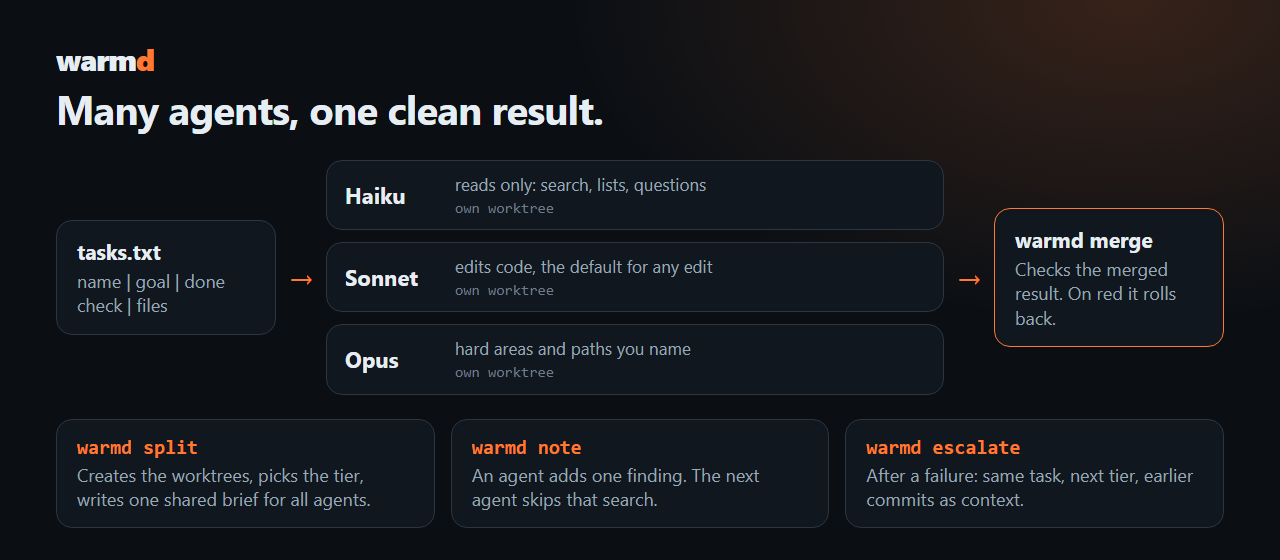
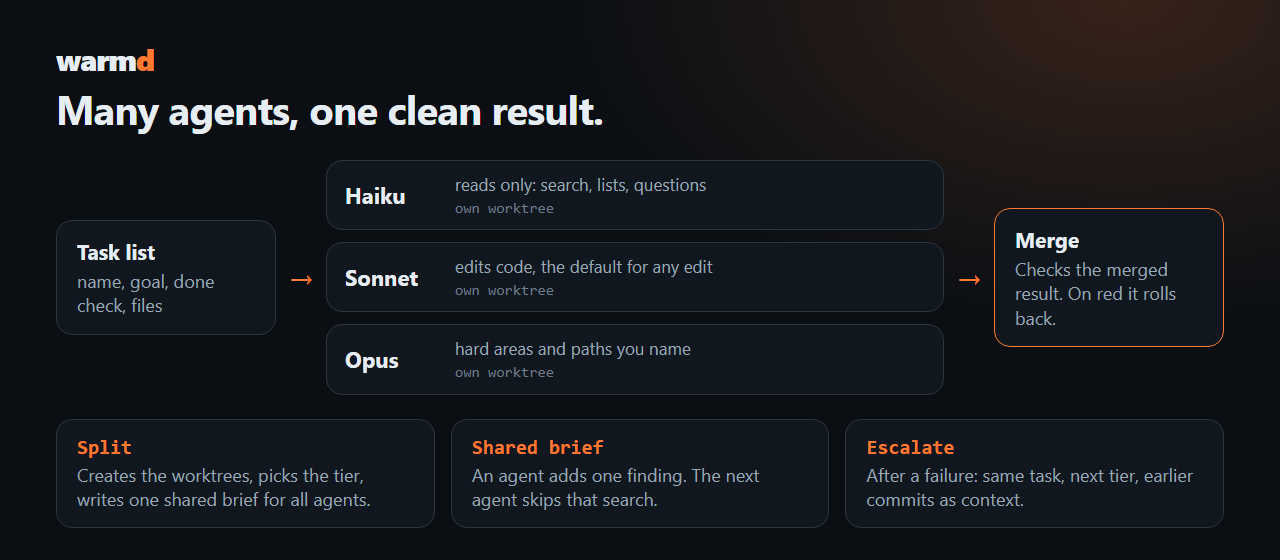
Site: render fixes from GitHub at 1280 and 390 px
- hero: no wide install block (overflowed on phone), link to Install
- stat table 2x2, the 4-column table scrolled on phone
- features.png larger text, flow.png names functions instead of commands

diff --git a/docs/assets/flow.html b/docs/assets/flow.html
@@ -23,7 +23,7 @@ h1{font-size:40px;line-height:1.15;letter-spacing:-.8px;font-weight:700;margin-t
 <div class="logo">warm<span>d</span></div>
 <h1>Many agents, one clean result.</h1>
 <div class="flow">
- <div class="card box"><b>tasks.txt</b>name | goal | done check | files</div>
+ <div class="card box"><b>Task list</b>name, goal, done check, files</div>
  <div class="ar">&rarr;</div>
  <div class="tiers">
   <div class="card tier"><b>Haiku</b><span>reads only: search, lists, questions<br><i class="wt">own worktree</i></span></div>
@@ -31,11 +31,11 @@ h1{font-size:40px;line-height:1.15;letter-spacing:-.8px;font-weight:700;margin-t
   <div class="card tier"><b>Opus</b><span>hard areas and paths you name<br><i class="wt">own worktree</i></span></div>
  </div>
  <div class="ar">&rarr;</div>
- <div class="card box hi"><b>warmd merge</b>Checks the merged result. On red it rolls back.</div>
+ <div class="card box hi"><b>Merge</b>Checks the merged result. On red it rolls back.</div>
 </div>
 <div class="under">
- <div class="card box"><b>warmd split</b>Creates the worktrees, picks the tier, writes one shared brief for all agents.</div>
- <div class="card box"><b>warmd note</b>An agent adds one finding. The next agent skips that search.</div>
- <div class="card box"><b>warmd escalate</b>After a failure: same task, next tier, earlier commits as context.</div>
+ <div class="card box"><b>Split</b>Creates the worktrees, picks the tier, writes one shared brief for all agents.</div>
+ <div class="card box"><b>Shared brief</b>An agent adds one finding. The next agent skips that search.</div>
+ <div class="card box"><b>Escalate</b>After a failure: same task, next tier, earlier commits as context.</div>
 </div>
 </body></html>

diff --git a/docs/assets/features.html b/docs/assets/features.html
@@ -1,7 +1,7 @@
 <!doctype html>
 <html><head><meta charset="utf-8"><style>
 *{box-sizing:border-box;margin:0}
-html,body{width:1280px;height:880px;overflow:hidden}
+html,body{width:1280px;height:1032px;overflow:hidden}
 body{background:#0b0f14;color:#e6edf3;font-family:"Segoe UI",system-ui,sans-serif;padding:44px 56px;position:relative}
 body:before{content:"";position:absolute;inset:0;background:radial-gradient(900px 520px at 88% 0%,rgba(255,122,48,.18),transparent 62%)}
 body>*{position:relative}
@@ -10,8 +10,8 @@ h1{font-size:40px;line-height:1.15;letter-spacing:-.8px;font-weight:700;margin-t
 .card{background:#11171e;border:1px solid #2c3641;border-radius:16px}
 h2{font-size:18px;letter-spacing:1.5px;text-transform:uppercase;color:#ff7a30;margin:26px 0 12px}
 .grid{display:grid;grid-template-columns:repeat(4,1fr);gap:12px}
-.k{padding:13px 16px;font-size:16px;line-height:1.3;color:#9aa7b4}
-.k b{display:block;color:#e6edf3;font-size:19px;margin-bottom:3px}
+.k{padding:14px 18px;font-size:19px;line-height:1.3;color:#9aa7b4}
+.k b{display:block;color:#e6edf3;font-size:23px;margin-bottom:4px}
 </style></head><body>
 <div class="logo">warm<span>d</span></div>
 <h1>Fast by default, safe by design.</h1>

diff --git a/README.md b/README.md
@@ -6,10 +6,7 @@
 
 **Install once. After that warmd runs the slow parts for your coding agent, and you do nothing.**
 
-```bash
-curl -fsSL https://raw.githubusercontent.com/Vyrenbusiness-source/warmd-fewer-tokens-faster-agents/main/install.sh | bash
-cd your-project && warmd init
-```
+For Windows, in Git Bash. [Install in one line](#install).
 
 [![Star on GitHub](https://img.shields.io/github/stars/Vyrenbusiness-source/warmd-fewer-tokens-faster-agents?style=social&label=Star)](https://github.com/Vyrenbusiness-source/warmd-fewer-tokens-faster-agents/stargazers)
 [![CI](https://github.com/Vyrenbusiness-source/warmd-fewer-tokens-faster-agents/actions/workflows/ci.yml/badge.svg)](https://github.com/Vyrenbusiness-source/warmd-fewer-tokens-faster-agents/actions/workflows/ci.yml)
@@ -25,10 +22,12 @@ cd your-project && warmd init
 
 <table>
 <tr>
-<td align="center" width="25%"><h3>95% faster</h3>one Unity test class<br><sub>56 s → 3 s, large HDRP project</sub></td>
-<td align="center" width="25%"><h3>99% fewer tokens</h3>per green Unity test run<br><sub>33 KB log → 41 bytes</sub></td>
-<td align="center" width="25%"><h3>0.4 s</h3>repeat run, code unchanged<br><sub>green results are cached</sub></td>
-<td align="center" width="25%"><h3>19% cheaper</h3>same task with and without warmd<br><sub>real A/B, 2 runs, <a href="docs/ab.md">docs/ab.md</a></sub></td>
+<td align="center" width="50%"><h3>95% faster</h3>one Unity test class<br><sub>56 s → 3 s, large HDRP project</sub></td>
+<td align="center" width="50%"><h3>99% fewer tokens</h3>per green Unity test run<br><sub>33 KB log → 41 bytes</sub></td>
+</tr>
+<tr>
+<td align="center" width="50%"><h3>0.4 s</h3>repeat run, code unchanged<br><sub>green results are cached</sub></td>
+<td align="center" width="50%"><h3>19% cheaper</h3>same task with and without warmd<br><sub>real A/B, 2 runs, <a href="docs/ab.md">docs/ab.md</a></sub></td>
 </tr>
 </table>
 
@@ -96,7 +95,7 @@ The aliases `haiku`, `sonnet` and `opus` follow new releases, so nothing needs c
 
 A task list becomes worktrees, model tiers and one-line prompts. All agents of a batch read one short shared brief and add findings to it, so the next agent skips that search. When context fills up, the state is saved and a fresh agent continues.
 
-![Flow: task list, split, Haiku, Sonnet and Opus each in a worktree, merge with rollback, escalate](docs/assets/flow.png)
+![Flow: a task list is split into worktrees for Haiku, Sonnet and Opus, merged with rollback; shared brief and escalation below](docs/assets/flow.png)
 
 ## Stalled agents wake up
 
